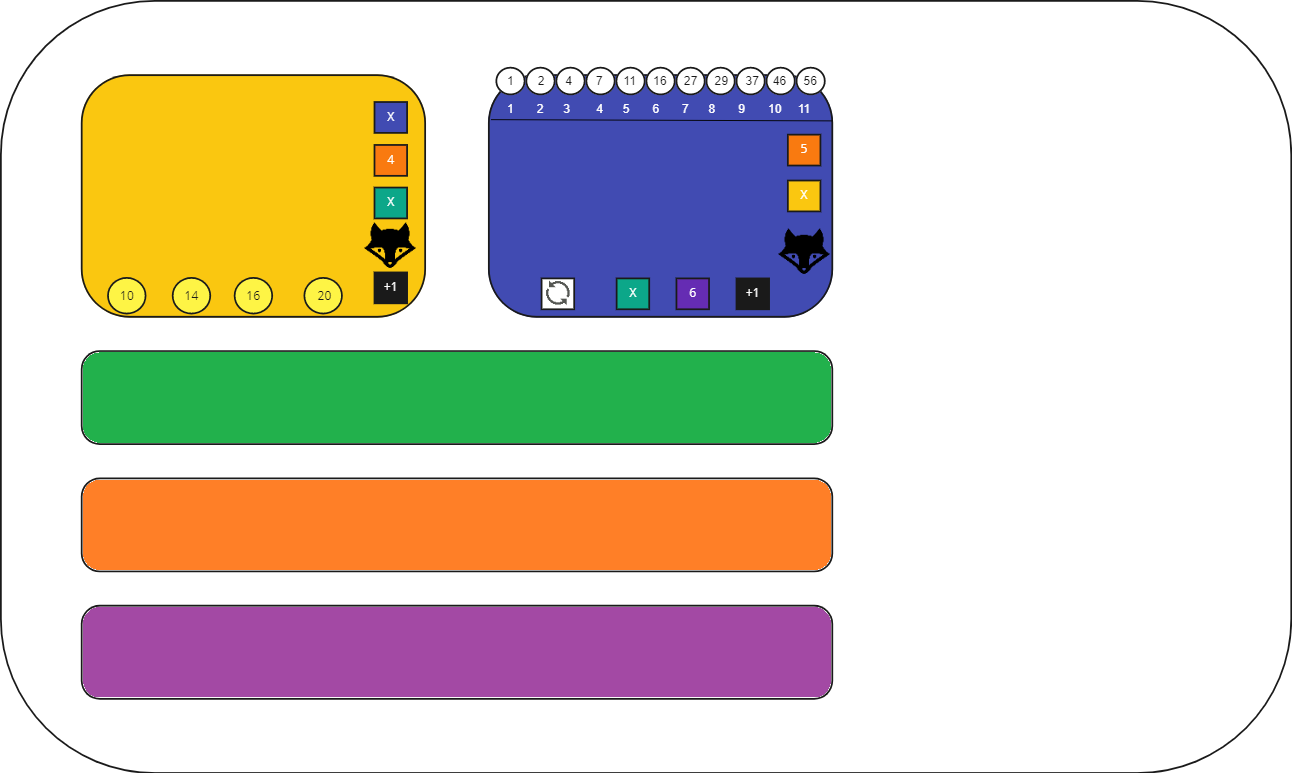
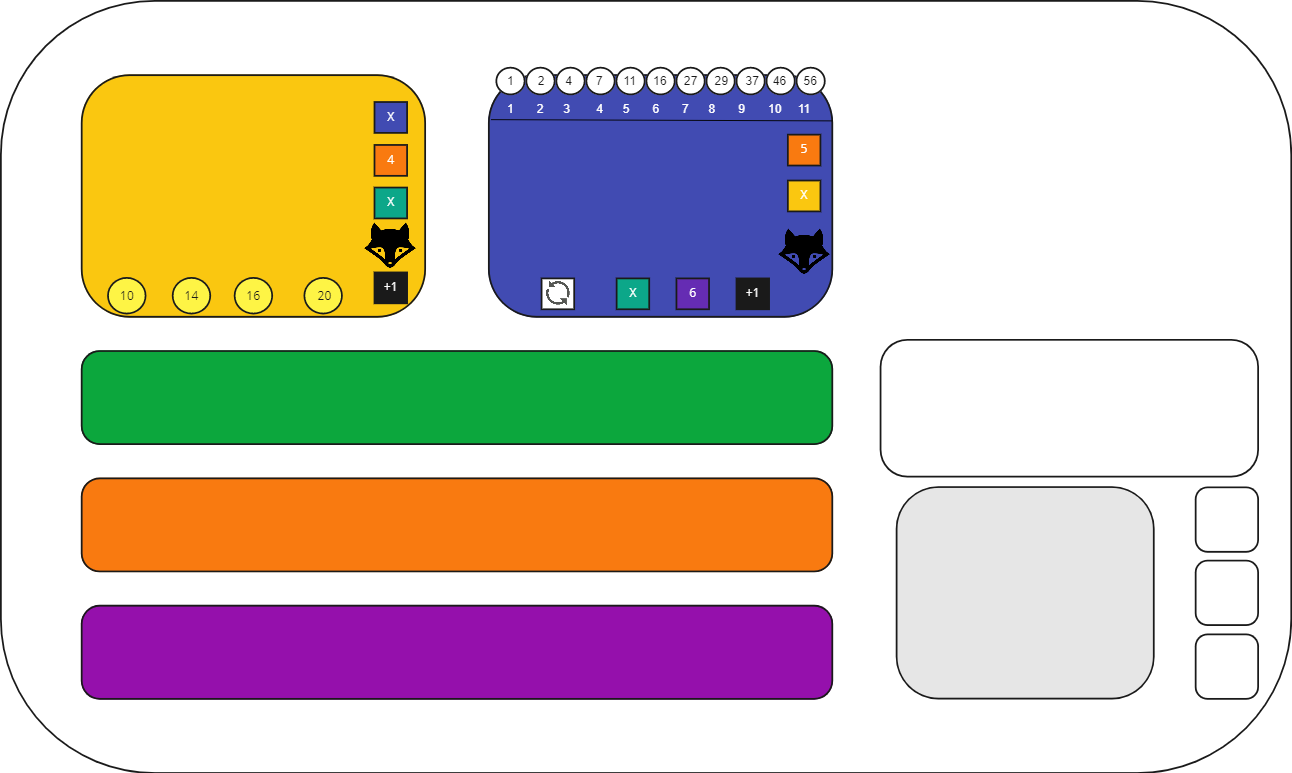
gui/Dorysowane kości, początek inicjalizacji kości, poprawiona tablica główna

diff --git a/src/ClientGUI.java b/src/ClientGUI.java
@@ -4,42 +4,65 @@ import java.awt.Color;
 import java.awt.event.ActionEvent;
 import java.awt.event.ActionListener;
 import java.util.Objects;
+import java.util.Random;
 
 public class ClientGUI {
+    /**
+     * Metoda tworząca przycisk o odpowiednich parametrach, wypełniony odpowiednią wartością
+     * @param button obiekt przycisku - pusty, domyślny
+     * @param label tekst do wyświetlenia w przycisku
+     * @param x współrzędna x przycisku
+     * @param y współrzędna y przycisku
+     * @param lp obiekt JLayeredPane do którego ma należeć przycisk
+     * @return gotowy przycisk
+     */
     JButton createFiled(JButton button, String label, int x, int y, JLayeredPane lp){
         button = new JButton(label);
         button.setBackground(Color.white);
         button.setBounds(x,y,41, 41);//x-axis, y-axis, width, height
-        lp.add(button, 2);//adding button in JFrame
+        lp.add(button, JLayeredPane.POPUP_LAYER);//adding button in JFrame
         button.setVisible(true);
-
         return button;
     }
 
-
+    /**
+     * Metoda tworząca przycisk z obrazem jako tłem
+     * @param button  obiekt przycisku - pusty, domyślny
+     * @param path ścieżka do pliku obrazka
+     * @param x współrzędna x przycisku
+     * @param y współrzędna y przycisku
+     * @param lp obiekt JLayeredPane do którego ma należeć przycisk
+     * @return gotowy przycisk
+     */
     JButton createImaged(JButton button, String path, int x, int y, JLayeredPane lp){
         button.setIcon(new ImageIcon(Objects.requireNonNull(this.getClass().getResource(path))));
         button.setBounds(x,y,41,41);
         button.setMargin(new Insets(0,0,0,0));
-        lp.add(button);
+        lp.add(button, JLayeredPane.POPUP_LAYER);
         button.setVisible(true);
-
         return button;
     }
-    JToggleButton createImaged(JToggleButton button,  String path, int x, int y, JLayeredPane lp){
-        button.setIcon(new ImageIcon(Objects.requireNonNull(this.getClass().getResource(path))));
+
+    /**
+     * Metoda tworząca "pustą" kość - nie nadając jej wartości
+     * @param button pusty obiekt przycisku
+     * @param x współrzędna x przycisku
+     * @param y współrzędna y przycisku
+     * @param lp obiekt JLayeredPane do którego ma należeć przycisk
+     * @return gotowy przycisk
+     */
+    JButton createDice(JButton button, int x, int y, JLayeredPane lp){
         button.setBounds(x,y,41,41);
         button.setMargin(new Insets(0,0,0,0));
-        lp.add(button);
+        lp.add(button, JLayeredPane.POPUP_LAYER);
         button.setVisible(true);
-
         return button;
     }
-
-    JFrame f=new JFrame();//creating instance of JFrame
-    JLayeredPane lp = new JLayeredPane();
-    JButton y00 =new JButton(); //creating instance of JButton
-    JButton y01 = new JButton();
+    //Inicjalizacja wszystkich przycisków - konieczna w tym miejscu z powodu odnoszenia się do nich z różnych metod
+    JFrame f=new JFrame(); // Ramka "zerowa" - podstawa gui
+    JLayeredPane lp = new JLayeredPane(); // Jedyny element JFrame, zawierający wszystkie przyciski
+    JButton y00 =new JButton(); //Przycisk żółty - kolumna 0 rząd 0
+    JButton y01 = new JButton(); // Przycisk żółty - kolumna 0 rząd 1
     JButton y02 = new JButton();
     JButton y10 = new JButton();
     JButton y20 = new JButton();
@@ -64,13 +87,17 @@ public class ClientGUI {
     JButton b20 = new JButton();
     JButton b21 = new JButton();
     JButton b23 = new JButton();
-    //JToggleButton d1 = new JToggleButton();
-    JButton d1 = new JButton();
+    JButton diceWhite = new JButton(); //kość biała
+    JButton diceYellow = new JButton();
+    JButton diceBlue = new JButton();
+    JButton dicePurple = new JButton();
+    JButton diceGreen = new JButton();
+    JButton diceOrange = new JButton();
 
     public ClientGUI(){
 
         f.setDefaultCloseOperation(JFrame.EXIT_ON_CLOSE);
-        f.setSize(new Dimension(1920,1080));//400 width and 500 height
+        f.setSize(new Dimension(1310,850)); //Ustawienie wielkości okna
 
         y00 = createFiled(y00, "3", 110, 115, lp);
         y01 = createFiled(y01, "2", 110, 165, lp);
@@ -98,17 +125,39 @@ public class ClientGUI {
         b12 = createFiled(b12, "7", 670,220,lp);
         b13 = createImaged(b13, "Images/12_Button.png", 740, 220, lp);
 
-//        d1.setIcon(new ImageIcon(Objects.requireNonNull(this.getClass().getResource("Images/Dice_One.png"))));
-//        d1.setBounds(1000,600,41,41);
-//        d1.setMargin(new Insets(0,0,0,0));
-//        lp.add(d1);
-//        d1.setVisible(true);
-        d1 = createImaged(d1, "Images/Dice_One.png", 1000, 600, lp);
+
+        diceWhite = createDice(diceWhite, 900, 400, lp);
+        Random random=new Random();
+        int startingDiceValue = random.nextInt(1,7);
+        switch (startingDiceValue){
+            case 1:
+                diceWhite.setIcon(new ImageIcon("src/Images/Dice_One.png"));
+                break;
+            case 2:
+                diceWhite.setIcon(new ImageIcon("src/Images/Dice_Two.png"));
+                break;
+            case 3:
+                diceWhite.setIcon(new ImageIcon("src/Images/Dice_Three.png"));
+                break;
+            case 4:
+                diceWhite.setIcon(new ImageIcon("src/Images/Dice_Four.png"));
+                break;
+            case 5:
+                diceWhite.setIcon(new ImageIcon("src/Images/Dice_Five.png"));
+                break;
+            case 6:
+                diceWhite.setIcon(new ImageIcon("src/Images/Dice_Six.png"));
+                break;
+            default:
+
+        }
+
+        //diceWhite = createImaged(diceWhite, "Images/Dice_One.png", 900, 400, lp);
         //d1.setSelectedIcon(new ImageIcon("src/Images/Dice_One.png"));
-        d1.addActionListener(new ActionListener() {
+        diceWhite.addActionListener(new ActionListener() {
             @Override
             public void actionPerformed(ActionEvent e) {
-                d1.setIcon(new ImageIcon("src/Images/Dice_One_Selected.png"));
+                diceWhite.setIcon(new ImageIcon("src/Images/Dice_One_Selected.png"));
             }
         });
 
@@ -124,11 +173,11 @@ public class ClientGUI {
         JLabel background = new JLabel(new ImageIcon("src/Images/BoardBackground.png"));
         background.setBounds(0,0,1292,835);
         background.setVisible(true);
-        lp.add(background, 1);
+        lp.add(background, JLayeredPane.DEFAULT_LAYER);
 
-        lp.repaint();
-        f.repaint();
         f.add(lp);
+
+        lp.setVisible(true);
         f.setLocationRelativeTo(null);
         f.setVisible(true);//making the frame visible
 

diff --git a/src/DiceRoll.java b/src/DiceRoll.java
@@ -8,6 +8,7 @@ public class DiceRoll {
     public DiceRoll(List<Dice> dices){
         this.dices=dices;
     }
+
     public static DiceRoll rollDice(){
         List<Dice> dices = new ArrayList<>();
         for (Color color :Color.values()){
@@ -16,6 +17,7 @@ public class DiceRoll {
         }
         return new DiceRoll(dices);
     }
+
     public List<Dice> getDices() {
         return dices;
     }

diff --git a/src/SowaPlayground.java b/src/SowaPlayground.java
@@ -2,6 +2,7 @@ import javax.swing.*;
 import java.awt.*;
 import java.awt.Color;
 import java.util.Map;
+import java.util.Random;
 import java.util.concurrent.TimeUnit;
 
 public class SowaPlayground {
@@ -38,7 +39,9 @@ public class SowaPlayground {
 
     public static void main(String[] args) throws InterruptedException {
         ClientGUI abc = new ClientGUI();
+
         //testgui();
+
     }
 
 }
